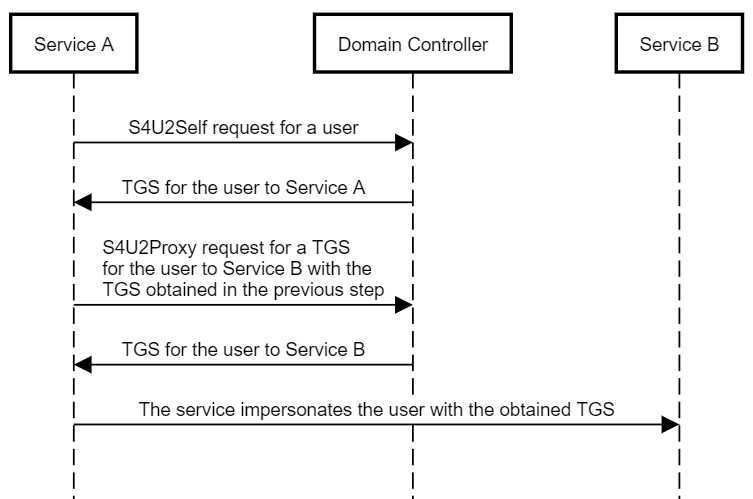
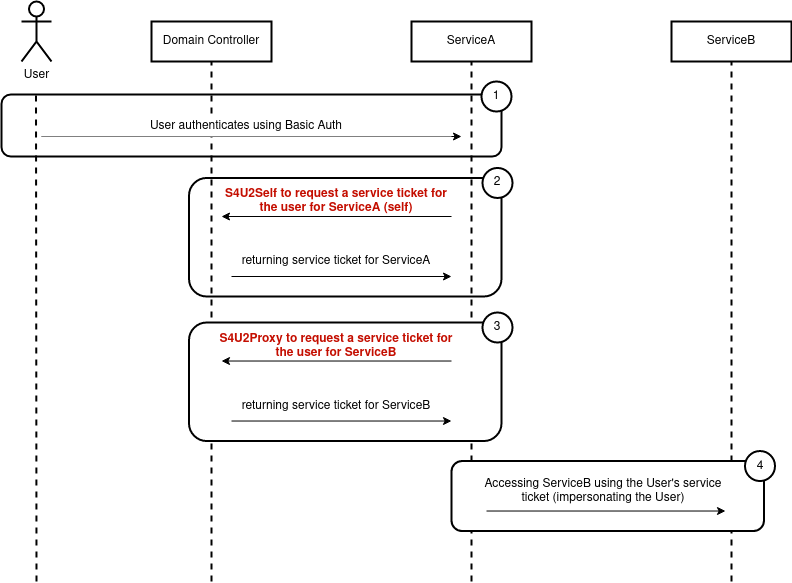
Fixed misleading Kerberos service ticket terms

diff --git a/public/css/poole.css b/public/css/poole.css
@@ -159,7 +159,7 @@ code {
   padding: .25em .5em;
   font-size: 85%;
   color: #bf616a;
-  background-color: #e3e1e170;
+  background-color: #bfbfbf70;
   border-radius: 3px;
 }
 pre {
@@ -217,7 +217,7 @@ pre code {
 blockquote {
   padding: .5rem 1rem;
   margin: .8rem 0;
-  color: #7a7a7a;
+  color: #4f4e4e;
   border-left: .25rem solid #e5e5e5;
 }
 blockquote p:last-child {

diff --git a/_posts/2020-02-14-KerberosDelegationAWrapUp.md b/_posts/2020-02-14-KerberosDelegationAWrapUp.md
@@ -30,7 +30,7 @@ There are 3 Types of Kerberos Delegation:
 Unconstrained Delegation allows a server to impersonate a client against any service the server wishes to. The client gives the server a wildcard allowance for impersonation.<br>
 Server and client are conceptual terms to stress the idea of delegation, read this as the server being a User account and the client being some other user account.
 
-In technical terms this means a server authorized with unconstrained delegation receives the TGTs from connecting clients and uses the clients TGTs to create new TGS for any service on behalf of the connecting client.<br>
+In technical terms this means a server authorized with unconstrained delegation receives the krbtgt service tickets (TGTs) from connecting clients and uses the clients TGT to create new service tickets (requested from the TGS) for any service on behalf of the connecting client.<br>
 **>>Take away>>:** A connecting client sends his TGT to a server authorized for unconstrained delegation
 
 ![Unconstrained101](/public/img/2020-02-14-KerberosDelegationAWrapUp/Unconstrained101.png)
@@ -64,9 +64,9 @@ The most efficient way to spread privileges rights within a domain is by the use
 
 First step is to identify if any principal has the **TRUSTED_FOR_DELEGATION** UserAccountControl attribute set (see ADSISearcher snippet above), let' say this is *UserA*.
 
-If there is a user set with TRUSTED_FOR_DELEGATION (UserA), an attacker can steal another user's TGT - let's call that user *UserB* - if:
-1. The attacker (UserA) can make the victim (UserB) connect to a service run by UserA (who has the TRUSTED_FOR_DELEGATION attribute set)
-2. The attacker (UserA) can extract UserB's TGT from the computer where UserA run his/her service and that UserB connected to.
+If there is a user set with TRUSTED_FOR_DELEGATION (*UserA*), an attacker can steal another user's TGT - let's call that user *UserB* - if:
+1. The attacker (*UserA*) can make the victim (*UserB*) connect to a service run by *UserA* (who has the TRUSTED_FOR_DELEGATION attribute set)
+2. The attacker (*UserA*) can extract *UserB*'s TGT from the computer where *UserA* run his/her service and that *UserB* connected to.
     
 For 1. [@tifkin_'s](https://twitter.com/tifkin_) amazing [SpoolSample.exe](https://github.com/leechristensen/SpoolSample) (also known for being the exploit for "The PrinterBug") can be used to trick an arbitrary ComputerAccount (including the DC-Computer account) to authenticate against a chosen target machine:<br>
 ```powershell
@@ -77,7 +77,7 @@ For 2. Easiest way to extract a TGT is by having local admin access to the targe
 - [Rubeus](https://github.com/GhostPack/Rubeus): `Rubeus.exe monitor`<br>
 - [Mimikatz](https://github.com/gentilkiwi/mimikatz): `mimikatz # sekurlsa::tickets /export`
 
-The extracted TGT of the targeted principal (UserB) can then in turn be used to connect to arbitrary other services on behalf of the victim, UserB.
+The extracted TGT of the targeted principal (*UserB*) can then in turn be used to connect to arbitrary other services on behalf of the victim, *UserB*.
 
 **An attack chain** could look as follows:<br>
 Assume you found found a computer account (ComputerA$) is set with the TRUSTED_FOR_DELEGATION attribute:<br>
@@ -110,29 +110,31 @@ You can now use your new user access for example by using [PsExec](https://docs.
 Constrained Delegation allows a server to impersonate a client against defined, specified service(s).
 Server and client are conceptual terms to stress the idea of delegation, read this as the server being a User account and the client being some other user account.
 
-Let's say a user (*UserA*) connects to a service (let's call it *ServiceA*) using his TGS for *ServiceA*.<br>
+Let's say a user (*UserA*) connects to a service (let's call it *ServiceA*) using his service ticket for *ServiceA*.<br>
 Now *ServiceA* needs to connect to another service (let's call that *ServiceB*) to do it's task, but it needs the permissions of *UserA* to do that.<br>
 In short: *ServiceA* wants to impersonate *UserA* and delegates his/her access permissions to *ServiceB*.
 
 This is where Constrained Delegation comes into play. Instead of allowing *ServiceA* to completely impersonating the user (against all services in the domain), *ServiceA* should only be allowed to impersonate *UserA* against *ServiceB*.
 
 The way this is done is as follows:
-- *UserA* connects to *ServiceA* using his/her TGS for *ServiceA*<br>
-- *ServiceA* uses a special service, called **S4U2Proxy**, to request a TGS for *ServiceB* on behalf of *UserA*<br>
-- The Kerberos Distribution Center (**KDC**) (which in most cases is part of the DomainController) return a TGS for *ServiceB* (this TGS is issued for *UserA*, hence allowing *ServiceA* to impersonate *UserA* towards *ServiceB*)<br>
-- *ServiceA* then connects to *ServiceB* with the returned TGS for *ServiceB*<br>
+- *UserA* connects to *ServiceA* using his/her service ticket for *ServiceA*<br>
+- *ServiceA* uses a special service, called **S4U2Proxy**, to request a service ticket for *ServiceB* on behalf of *UserA*<br>
+- The Kerberos Distribution Center (**KDC**) (which in most cases is part of the DomainController) return a service ticket for *ServiceB* (this service tiicket is issued for *UserA*, hence allowing *ServiceA* to impersonate *UserA* towards *ServiceB*)<br>
+- *ServiceA* then connects to *ServiceB* with the returned service ticket for *ServiceB*<br>
 
 ![S4U2Proxy](/public/img/2020-02-14-KerberosDelegationAWrapUp/S4U2Proxy.png)
 
-In this case *ServiceA* makes use of the **S4U2Proxy** service in order to request a TGS for *ServiceB* on behalf of *UserA*.<br>
-The S4U2Proxy services requires that the caller (*ServiceA*) presents a valid TGS for the user that should be impersonated (*UserA*).<br>
-This is meant to ensure that the user exists and has really connected to *ServiceA* (otherwise ServiceA would not have the user's TGS).
-There might occur cases where ServiceA can't present a TGS for the User (because *UserA* didn't connect via Kerberos), for those cases the **Protocol Transition** with the **S4U2Self** service has been created (we'll get to this in a moment further down below).
+*(Note in red the use of **S4U2Proxy** instead of using the user's TGT, which would require **Unconstrained Delegation**)*
 
-Note that the TGS provided in the S4U2Proxy request must have the **FORWARDABLE** flag set.<br> 
-The FORWARDABLE flag is never set for accounts that are configured as "sensitive for delegation" (the **USER_NOT_DELEGATED** attribute is set to true) or for members of the "Protected Users" group
+In this case *ServiceA* makes use of the **S4U2Proxy** service in order to request a service for *ServiceB* on behalf of *UserA*.<br>
+The S4U2Proxy services requires that the caller (*ServiceA*) presents a valid service ticket for the user that should be impersonated (*UserA*).<br>
+This is meant to ensure that the user exists and has really connected to *ServiceA* (otherwise ServiceA would not have the user's service ticket).
+There might occur cases where ServiceA can't present a service ticket for the User (because *UserA* hadn't connected via Kerberos), for those cases the **Protocol Transition** with the **S4U2Self** service has been created (we'll get to this in a moment further down below).
 
-In order for this to work *ServiceA* must be authorized for Constrained Delegation (more on this below) and must be specified with a defined set of user accounts that can impersonate (meaning where it can delegate a user authentication to)
+Note that the service ticket provided in the S4U2Proxy request must have the **FORWARDABLE** flag set.<br> 
+The FORWARDABLE flag is never set for accounts that are configured as "sensitive for delegation" (the **USER_NOT_DELEGATED** attribute is set to true) or for members of the "Protected Users" group.
+
+In order for this to work *ServiceA* must be authorized for Constrained Delegation (more on this below) and must be specified with a defined set of user accounts that can impersonate (meaning where it can delegate a user authentication to).
 
 **An Example** account configuration could look like this:<br>
 In the below image ServiceA would be the user *SQLSvc* and ServiceB would be *EXCHANGE01*.<br>
@@ -157,18 +159,18 @@ All principals that hold the SeEnableDelegationPrivilege privilege.<br>
 
 
 ## Constrained Delegation (S4U2Self)
-In the "usual" Constrained Delegation process the S4U2Proxy service is required to obtain a TGS for the user that a service wishes to impersonate. This is meant to ensure that this user exists and has really authenticated to the service that now tries to impersonate him/her.
+In the "usual" Constrained Delegation process the S4U2Proxy service is required to obtain a service ticket for the user that a service wishes to impersonate. This is meant to ensure that this user exists and has really authenticated to the service that now tries to impersonate him/her.
 
 Let's say *UserA* connected to *ServiceA* and *ServiceA* is allowed to delegate (ms-DS-Allowed-To-Delegate-To) to *ServiceB*.<br>
-As *ServiceA* is required to present *UserA*'s TGS to the S4U2Proxy service, *UserA* is required to connect to *ServiceA* through Kerberos (otherwise there would be no TGS).<br>
+As *ServiceA* is required to present *UserA*'s service ticket to the S4U2Proxy service, *UserA* is required to connect to *ServiceA* through Kerberos (otherwise there would be no service ticket).<br>
 What if the user can't connect to *ServiceA* via Kerberos, but wants to use other authentication mechanisms (NTLM, BasicAuth, ...)<br>
-This is where **Protocol Transition** and the **S4U2Self** services come into play 
-    
-In the cases where *UserA* does not authenticate to *ServiceA* via Kerberos, *ServiceA* can use the S4U2Self service to create a TGS for *UserA*, which it then in turn can use to run S4U2Proxy as usual.<br>
-**→ This means ServiceA can request a TGS for/to itself for any arbitrary user.**
+This is where **Protocol Transition** and the **S4U2Self** services come into play.
+
+In the cases where *UserA* does not authenticate to *ServiceA* via Kerberos, *ServiceA* can use the S4U2Self service to create a servuce ticket for *UserA*, which it then in turn can use to run S4U2Proxy as usual.<br>
+**→ This means ServiceA can request a service ticket for/to itself for any arbitrary user.**
 
 As this is sensitive operation Microsoft created an additional UserAccountControl Attribute **‘TRUSTED_TO_AUTH_FOR_DELEGATION’**.<br>
-Only principals that hold this UserAccountControl attribute can request TGS to/for itself for any user from the KDC.
+Only principals that hold this UserAccountControl attribute can request service ticket to/for itself for any user from the KDC.
 
 Assume *UserA* connected to *ServiceA* via NTLM, the authentication flow then looks like the following (making use of S4U2Self)
 
@@ -178,7 +180,7 @@ An Example account configuration for Unconstrained Delegation with Protocol Tran
 
 ![Screenshot_from_2020-01-22_16-05-26](/public/img/2020-02-14-KerberosDelegationAWrapUp/Screenshot_from_2020-01-22_16-05-26.png)
 
-**Who is Authorized To Request TGS For Arbitrary Users ?**<br>
+**Who is Authorized To Request Service Tickets For Arbitrary Users To Themselfs ?**<br>
 All principals that have the **TRUSTED_TO_AUTH_FOR_DELEGATION** UserAccountControl attribute.<br>
 → Per Default no user has this attribute
 
@@ -210,7 +212,7 @@ In technical terms that means:<br>
 A user account holding the **SeEnableDelegationPrivilege** can set **ms-DS-Allowed-To-Delegate-To** account attribute of *UserA* to be 'ServiceB\HostB'.
 
 Let's refer to this "conventional" Constrained based delegation as "Outbound Delegation" for a second.<br>
-This makes sense as the granted authorization by the admin points away from the resource (from *UserA* to *ServiceB\HostB*) 
+This makes sense as the granted authorization by the admin points away from the resource (from *UserA* to *ServiceB\HostB*).
 
 By introducing Resource Based Constrained Delegation Microsoft wanted the delegation concept to be more flexible and allow a resource owner (that is a User) to decide who is allowed to delegate to him/her.<br>
 To facilitate that Microsoft created the new account attribute **msDS-AllowedToActOnBehalfOfOtherIdentity**.
@@ -219,8 +221,8 @@ To facilitate that Microsoft created the new account attribute **msDS-AllowedToA
 <u>any user with write permissions</u> to *UserB*'s 'msDS-AllowedToActOnBehalfOfOtherIdentity’ account attribute can set this attribute to a bitmask representing *UserA*.<br>
 → As *UserB* has write permissions to his/her own account attributes, *UserB* can allow *UserA* to delegate to his/her services without the need of an administrator.
 
-If *UserB*'s 'msDS-AllowedToActOnBehalfOfOtherIdentity’ account attribute is set to *UserA*, *UserA* can request a TGS for any service run by *UserB*.<br>
-→ **Note in “conventional” constraint delegation UserA would only be allowed to request a TGS for ServiceB run by UserB**
+If *UserB*'s 'msDS-AllowedToActOnBehalfOfOtherIdentity’ account attribute is set to *UserA*, *UserA* can request a service ticket for any service run by *UserB*.<br>
+→ **Note in “conventional” constraint delegation UserA would only be allowed to request a service ticket for ServiceB run by UserB**
 
 ![DelegationTypes](/public/img/2020-02-14-KerberosDelegationAWrapUp/DelegationTypes.png)
 

diff --git a/_posts/2020-02-15-KerberosDelegationAReferenceOverview.md b/_posts/2020-02-15-KerberosDelegationAReferenceOverview.md
@@ -27,7 +27,7 @@ Find users with 'TRUSTED_FOR_DELEGATION' with:
 ```
 
 **ms-DS-Allowed-To-Delegate-To**<br>
-All users that have a value specified (specific service on specific host) within the ‘ms-DS-Allowed-To-Delegate-To’ account attribute are allowed to delegate to the specified service on the specified host (on behalf of a user that connected to a service run by this user). Users with this attribute can request a TGS to the specific service using S4U2Proxy.<br>
+All users that have a value specified (specific service on specific host) within the ‘ms-DS-Allowed-To-Delegate-To’ account attribute are allowed to delegate to the specified service on the specified host (on behalf of a user that connected to a service run by this user). Users with this attribute can request a service ticket to the specific service using S4U2Proxy.<br>
 → This is is **Constrained Delegation**
 
 Find users with the ‘ms-DS-Allowed-To-Delegate-To’ object attribute:
@@ -37,7 +37,7 @@ Find users with the ‘ms-DS-Allowed-To-Delegate-To’ object attribute:
 ```
 
 **TRUSTED_TO_AUTH_FOR_DELEGATION**<br>
-All users that have the UserAccountControl attribute 'TRUSTED_TO_AUTH_FOR_DELEGATION' (16777216) set are allowed to request a TGS to itself for any arbitrary user (using S4U2Self).<br>
+All users that have the UserAccountControl attribute 'TRUSTED_TO_AUTH_FOR_DELEGATION' (16777216) set are allowed to request a service ticket to itself for any arbitrary user (using S4U2Self).<br>
 These users should have a value specified within the ‘ms-DS-Allowed-To-Delegate-To’ account attribute as well. Combining both means: These users are allowed to delegate any arbitrary user to the specified service on the specified host. <br>
 → This is is **Constrained Delegation with allowed Protocol Tranisition** (S4U2Self)
 
@@ -68,31 +68,31 @@ Use [@tifkin_'s](https://twitter.com/tifkin_) [SpoolSample.exe](https://github.c
 <hr>
 
 Attacker compromised UserAccount with attribute **ms-DS-Allowed-To-Delegate-To** set:<br>
-→ You will be able to get a TGS to the service specified in the attribute for any user connecting to you.<br>
+→ You will be able to get a service ticket to the service specified in the attribute for any user connecting to you.<br>
 
 For simplicity assuming compromised the user account is a Computer Account<br>
-Use [@tifkin_'s](https://twitter.com/tifkin_) [SpoolSample.exe](https://github.com/leechristensen/SpoolSample) (also known for being the exploit for "The PrinterBug") to force the DomainController Computer account to connect to you, get a TGS for the DomainController Computer account to the specified service (Using S4U2Proxy)<br>
+Use [@tifkin_'s](https://twitter.com/tifkin_) [SpoolSample.exe](https://github.com/leechristensen/SpoolSample) (also known for being the exploit for "The PrinterBug") to force the DomainController Computer account to connect to you, get a service ticket for the DomainController Computer account to the specified service (e.g. for the 'cifs' service) using **S4U2Proxy**.<br>
 → You gained access to the specified service (e.g. CIFS on the DC)
 
 <hr>
 
 Attacker compromised UserAccount with attribute **TRUSTED_TO_AUTH_FOR_DELEGATION** set:<br>
-→ You will be able to get a TGS to yourself for any user<br>
+→ You will be able to get a service ticket to yourself for any user<br>
 
 For simplicity assuming compromised the user account is a Computer Account.<br>
-Get a TGS for the DomainController Computer account to your services (e.g. cfis) by using **S4U2Self**<br>
+Get a service ticket for the DomainController Computer account to your services (e.g. 'cfis') by using **S4U2Self**<br>
 → You already got access to your own services (as you own them), therefore this in itself does not get you anything
 
-If the compromised user account also has the ms-DS-Allowed-To-Delegate-To set (which is likely), you can gain access to the service specified in the ms-DS-Allowed-To-Delegate-To attribute (e.g. CIFS on some host) by using the previously obtained Domain Controller accounts TGS with **S4U2Proxy**<br>
-→ You gained access to the specified service (e.g. CIFS on some host) without any user connecting to you (aka. no SpoolSample.exe)
+If the compromised user account also has the ms-DS-Allowed-To-Delegate-To set (which is likely), you can gain access to the service specified in the ms-DS-Allowed-To-Delegate-To attribute (e.g. 'cifs' on some host) by using the previously obtained Domain Controller accounts service ticket with **S4U2Proxy**.<br>
+→ You gained access to the specified service (e.g. 'cifs' on some host) without any user connecting to you (aka. no SpoolSample.exe)
 
 <hr>
         
 Attacker compromised UserAccount with attribute **msDS-AllowedToActOnBehalfOfOtherIdentity** set:<br>
-→ You can allow any user to get a TGS to any of your services<br>
+→ You can allow any user to get a service ticket to any of your services<br>
 
 For simplicity assuming compromised the user account is a Computer Account.<br>
 If you compromised the entire user account (e.g. got the user's password) of the account this is barely of any use (as you already have access to the machine).<br>
-But if you have gained "only" write access to that user account or this attribute, you can gain access to the account by specifying your own user account. This allows your user account to obtain a TGS to the account by using **S4U2Self** and **S4U2Proxy**<br>
+But if you have gained "only" write access to that user account or this attribute, you can gain access to the account by specifying your own user account. This allows your user account to obtain a service ticket to the account by using **S4U2Self** and **S4U2Proxy**<br>
 
-Note: In this case your user account (which you allow to delegate from) does not need to have the TRUSTED_TO_AUTH_FOR_DELEGATION UserAccountControl flag. In Resource Based Constrained Delegation the TGS that you created with S4U2Self, which you then used in S4U2Proxy does not need to have the FORWARDABLE flag (in contrast to classic Constrained Delegation).
+Note: In this case your user account (which you allow to delegate from) does not need to have the TRUSTED_TO_AUTH_FOR_DELEGATION UserAccountControl flag. In Resource Based Constrained Delegation the service that you created with S4U2Self, which you then used in S4U2Proxy does not need to have the FORWARDABLE flag (in contrast to classic Constrained Delegation).

diff --git a/_posts/2018-04-04-SPNEGODown.md b/_posts/2018-04-04-SPNEGODown.md
@@ -30,8 +30,8 @@ Unfortunately for a security protocol SPNEGO lacks measures to check its data in
 *What stops an attacker in a Man-in-the-middle position from changing the list of proposed authentication schemes to the attacker’s preferred choice?*<br>
 The answer to this is simple: Absolutely nothing.
 
-The result of changing the authentication scheme, e.g. from Kerberos to NTLM, can, on the other hand, have high value for an attacker. An NTLM response hash, sent over the wire, is far more likely to be breakable than a Kerberos service ticket (TGS).<br>
-The NTLM response contains a hash of the password chosen by the domain user, whereas the TGS contains an auto-generated service password.  An attacker capable of downgrading the authentication scheme to NTLM can therefore attempt to crack the user’s chosen password in an offline brute-forcing attack in order to gain access to the user’s system whereas this is considered implausible for a Kerberos ticket.
+The result of changing the authentication scheme, e.g. from Kerberos to NTLM, can, on the other hand, have high value for an attacker. An NTLM response hash, sent over the wire, is far more likely to be breakable than a Kerberos service ticket.<br>
+The NTLM response contains a hash of the password chosen by the domain user, whereas the service ticket contains an auto-generated service password.  An attacker capable of downgrading the authentication scheme to NTLM can therefore attempt to crack the user’s chosen password in an offline brute-forcing attack in order to gain access to the user’s system whereas this is considered implausible for a Kerberos ticket.
 
 > A fresh up on how NTLM and Kerberos authentication work can be found here:
 - [NTLM Authentication: A Wrap Up]({% post_url 2017-09-10-NTLMAuthenticationAWrapUp%}) 
